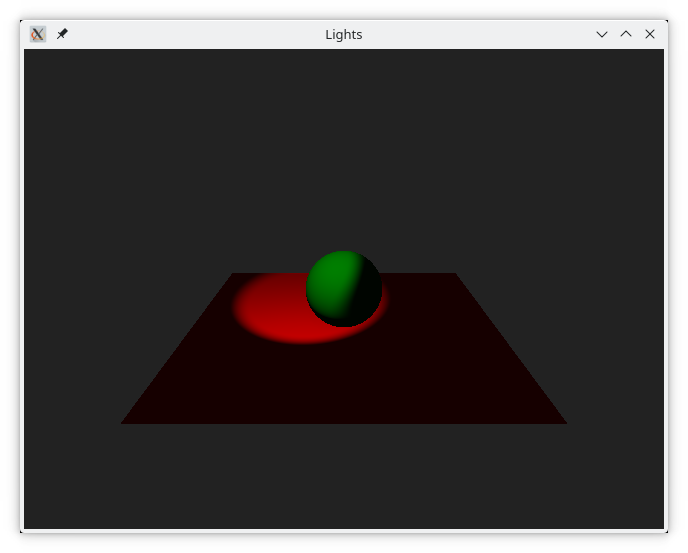
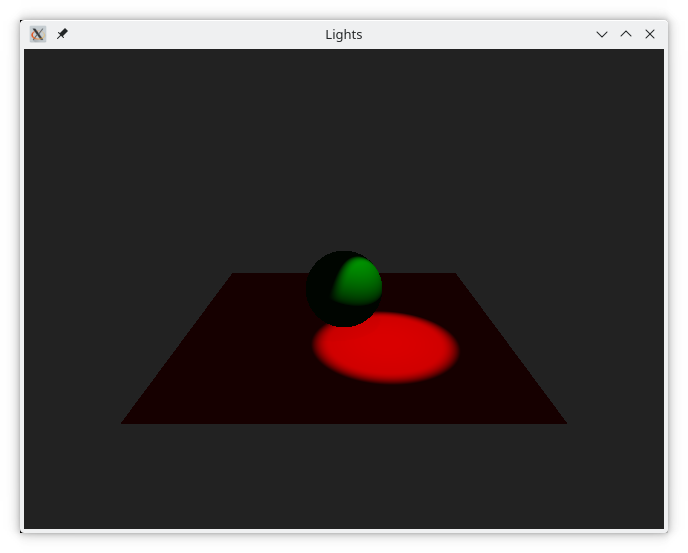
3d: first half of intro chapter

Changed region(s): [[0.3358, 0.4304, 0.6715, 0.7071]]

diff --git a/docs/ch12-qtquick3d/src/meshes/main.qml b/docs/ch12-qtquick3d/src/meshes/main.qml
@@ -1,3 +1,30 @@
+/*
+ * Copyright (c) 2023, Johan Thelin
+ * All rights reserved.
+ *
+ * Redistribution and use in source and binary forms, with or without
+ * modification, are permitted provided that the following conditions are met:
+ *     * Redistributions of source code must retain the above copyright
+ *       notice, this list of conditions and the following disclaimer.
+ *     * Redistributions in binary form must reproduce the above copyright
+ *       notice, this list of conditions and the following disclaimer in the
+ *       documentation and/or other materials provided with the distribution.
+ *     * Neither the name of the editors nor the
+ *       names of its contributors may be used to endorse or promote products
+ *       derived from this software without specific prior written permission.
+ *
+ * THIS SOFTWARE IS PROVIDED BY THE COPYRIGHT HOLDERS AND CONTRIBUTORS "AS IS" AND
+ * ANY EXPRESS OR IMPLIED WARRANTIES, INCLUDING, BUT NOT LIMITED TO, THE IMPLIED
+ * WARRANTIES OF MERCHANTABILITY AND FITNESS FOR A PARTICULAR PURPOSE ARE
+ * DISCLAIMED. IN NO EVENT SHALL <COPYRIGHT HOLDER> BE LIABLE FOR ANY
+ * DIRECT, INDIRECT, INCIDENTAL, SPECIAL, EXEMPLARY, OR CONSEQUENTIAL DAMAGES
+ * (INCLUDING, BUT NOT LIMITED TO, PROCUREMENT OF SUBSTITUTE GOODS OR SERVICES;
+ * LOSS OF USE, DATA, OR PROFITS; OR BUSINESS INTERRUPTION) HOWEVER CAUSED AND
+ * ON ANY THEORY OF LIABILITY, WHETHER IN CONTRACT, STRICT LIABILITY, OR TORT
+ * (INCLUDING NEGLIGENCE OR OTHERWISE) ARISING IN ANY WAY OUT OF THE USE OF THIS
+ * SOFTWARE, EVEN IF ADVISED OF THE POSSIBILITY OF SUCH DAMAGE.
+ */
+
 import QtQuick
 import QtQuick3D
 
@@ -16,26 +43,26 @@ Window {
         }
 
         Model {
-            position: Qt.vector3d(-200, 100, 0)
+            position: Qt.vector3d(200, 100, 0)
             source: "#Cone"
             materials: [ DefaultMaterial { diffuseColor: "yellow"; } ]
         }
 
         Model {
-            position: Qt.vector3d(200, 100, 0)
+            position: Qt.vector3d(-200, 100, 0)
             source: "#Cube"
             materials: [ DefaultMaterial { diffuseColor: "orange"; } ]
         }
 
         Model {
-            position: Qt.vector3d(-200, -100, 0)
-            eulerRotation.x: -135
+            position: Qt.vector3d(200, -100, 0)
+            eulerRotation.z: 45
             source: "#Rectangle"
             materials: [ DefaultMaterial { diffuseColor: "red"; } ]
         }
 
         Model {
-            position: Qt.vector3d(200, -100, 0)
+            position: Qt.vector3d(-200, -100, 0)
             source: "#Cylinder"
             materials: [ DefaultMaterial { diffuseColor: "blue"; } ]
         }
@@ -47,13 +74,13 @@ Window {
         }
 
         PerspectiveCamera {
-            position: Qt.vector3d(0, 0, -500)
+            position: Qt.vector3d(0, 175, 500)
             Component.onCompleted: lookAt(Qt.vector3d(0, 0, 0))
         }
 
         DirectionalLight {
-            eulerRotation.x: -20
-            eulerRotation.y: -110
+            eulerRotation.x: 20
+            eulerRotation.y: 20
         }
     }
 }

diff --git a/docs/ch12-qtquick3d/src/basicscene/main.qml b/docs/ch12-qtquick3d/src/basicscene/main.qml
@@ -1,3 +1,30 @@
+/*
+ * Copyright (c) 2023, Johan Thelin
+ * All rights reserved.
+ *
+ * Redistribution and use in source and binary forms, with or without
+ * modification, are permitted provided that the following conditions are met:
+ *     * Redistributions of source code must retain the above copyright
+ *       notice, this list of conditions and the following disclaimer.
+ *     * Redistributions in binary form must reproduce the above copyright
+ *       notice, this list of conditions and the following disclaimer in the
+ *       documentation and/or other materials provided with the distribution.
+ *     * Neither the name of the editors nor the
+ *       names of its contributors may be used to endorse or promote products
+ *       derived from this software without specific prior written permission.
+ *
+ * THIS SOFTWARE IS PROVIDED BY THE COPYRIGHT HOLDERS AND CONTRIBUTORS "AS IS" AND
+ * ANY EXPRESS OR IMPLIED WARRANTIES, INCLUDING, BUT NOT LIMITED TO, THE IMPLIED
+ * WARRANTIES OF MERCHANTABILITY AND FITNESS FOR A PARTICULAR PURPOSE ARE
+ * DISCLAIMED. IN NO EVENT SHALL <COPYRIGHT HOLDER> BE LIABLE FOR ANY
+ * DIRECT, INDIRECT, INCIDENTAL, SPECIAL, EXEMPLARY, OR CONSEQUENTIAL DAMAGES
+ * (INCLUDING, BUT NOT LIMITED TO, PROCUREMENT OF SUBSTITUTE GOODS OR SERVICES;
+ * LOSS OF USE, DATA, OR PROFITS; OR BUSINESS INTERRUPTION) HOWEVER CAUSED AND
+ * ON ANY THEORY OF LIABILITY, WHETHER IN CONTRACT, STRICT LIABILITY, OR TORT
+ * (INCLUDING NEGLIGENCE OR OTHERWISE) ARISING IN ANY WAY OUT OF THE USE OF THIS
+ * SOFTWARE, EVEN IF ADVISED OF THE POSSIBILITY OF SUCH DAMAGE.
+ */
+
 import QtQuick
 import QtQuick3D
 
@@ -10,11 +37,14 @@ Window {
     View3D {
         anchors.fill: parent
 
+// #region environment
         environment: SceneEnvironment {
             clearColor: "#222222"
             backgroundMode: SceneEnvironment.Color
         }
+// #endregion environment
 
+// #region meshes
         Model {
             position: Qt.vector3d(0, 0, 0)
             scale: Qt.vector3d(1, 1.25, 1)
@@ -23,21 +53,26 @@ Window {
         }
 
         Model {
-            position: Qt.vector3d(-80, 0, -50)
+            position: Qt.vector3d(80, 0, 50)
             source: "#Sphere"
             materials: [ DefaultMaterial { diffuseColor: "green"; } ]
         }
+// #endregion meshes
 
+// #region camera
         PerspectiveCamera {
-            position: Qt.vector3d(0, 200, -300)
+            position: Qt.vector3d(0, 200, 300)
             Component.onCompleted: lookAt(Qt.vector3d(0, 0, 0))
         }
+// #endregion camera
 
+// #region light
         DirectionalLight {
             eulerRotation.x: -20
-            eulerRotation.y: -110
+            eulerRotation.y: 110
 
             castsShadow: true
         }
+// #endregion light
     }
 }

diff --git a/docs/ch12-qtquick3d/src/lights/main.qml b/docs/ch12-qtquick3d/src/lights/main.qml
@@ -1,3 +1,30 @@
+/*
+ * Copyright (c) 2023, Johan Thelin
+ * All rights reserved.
+ *
+ * Redistribution and use in source and binary forms, with or without
+ * modification, are permitted provided that the following conditions are met:
+ *     * Redistributions of source code must retain the above copyright
+ *       notice, this list of conditions and the following disclaimer.
+ *     * Redistributions in binary form must reproduce the above copyright
+ *       notice, this list of conditions and the following disclaimer in the
+ *       documentation and/or other materials provided with the distribution.
+ *     * Neither the name of the editors nor the
+ *       names of its contributors may be used to endorse or promote products
+ *       derived from this software without specific prior written permission.
+ *
+ * THIS SOFTWARE IS PROVIDED BY THE COPYRIGHT HOLDERS AND CONTRIBUTORS "AS IS" AND
+ * ANY EXPRESS OR IMPLIED WARRANTIES, INCLUDING, BUT NOT LIMITED TO, THE IMPLIED
+ * WARRANTIES OF MERCHANTABILITY AND FITNESS FOR A PARTICULAR PURPOSE ARE
+ * DISCLAIMED. IN NO EVENT SHALL <COPYRIGHT HOLDER> BE LIABLE FOR ANY
+ * DIRECT, INDIRECT, INCIDENTAL, SPECIAL, EXEMPLARY, OR CONSEQUENTIAL DAMAGES
+ * (INCLUDING, BUT NOT LIMITED TO, PROCUREMENT OF SUBSTITUTE GOODS OR SERVICES;
+ * LOSS OF USE, DATA, OR PROFITS; OR BUSINESS INTERRUPTION) HOWEVER CAUSED AND
+ * ON ANY THEORY OF LIABILITY, WHETHER IN CONTRACT, STRICT LIABILITY, OR TORT
+ * (INCLUDING NEGLIGENCE OR OTHERWISE) ARISING IN ANY WAY OUT OF THE USE OF THIS
+ * SOFTWARE, EVEN IF ADVISED OF THE POSSIBILITY OF SUCH DAMAGE.
+ */
+
 import QtQuick
 import QtQuick3D
 
@@ -30,13 +57,13 @@ Window {
         }
 
         PerspectiveCamera {
-            position: Qt.vector3d(0, 200, -500)
+            position: Qt.vector3d(0, 200, 500)
             Component.onCompleted: lookAt(Qt.vector3d(0, 0, 0))
         }
 
         SpotLight {
-            position: Qt.vector3d(50, 200, -150)
-            eulerRotation.x: 230
+            position: Qt.vector3d(50, 200, 50)
+            eulerRotation.x: -90
 
             brightness: 5
             ambientColor: Qt.rgba(0.1, 0.1, 0.1, 1.0)
@@ -45,14 +72,14 @@ Window {
         }
 
         PointLight {
-            position: Qt.vector3d(100, 100, -50)
+            position: Qt.vector3d(100, 100, 150)
 
             castsShadow: true
         }
 
         DirectionalLight {
-            eulerRotation.x: -20
-            eulerRotation.y: -110
+            eulerRotation.x: 210
+            eulerRotation.y: 20
 
             castsShadow: true
         }

diff --git a/docs/ch12-qtquick3d/src/translations/main.qml b/docs/ch12-qtquick3d/src/translations/main.qml
@@ -1,3 +1,30 @@
+/*
+ * Copyright (c) 2023, Johan Thelin
+ * All rights reserved.
+ *
+ * Redistribution and use in source and binary forms, with or without
+ * modification, are permitted provided that the following conditions are met:
+ *     * Redistributions of source code must retain the above copyright
+ *       notice, this list of conditions and the following disclaimer.
+ *     * Redistributions in binary form must reproduce the above copyright
+ *       notice, this list of conditions and the following disclaimer in the
+ *       documentation and/or other materials provided with the distribution.
+ *     * Neither the name of the editors nor the
+ *       names of its contributors may be used to endorse or promote products
+ *       derived from this software without specific prior written permission.
+ *
+ * THIS SOFTWARE IS PROVIDED BY THE COPYRIGHT HOLDERS AND CONTRIBUTORS "AS IS" AND
+ * ANY EXPRESS OR IMPLIED WARRANTIES, INCLUDING, BUT NOT LIMITED TO, THE IMPLIED
+ * WARRANTIES OF MERCHANTABILITY AND FITNESS FOR A PARTICULAR PURPOSE ARE
+ * DISCLAIMED. IN NO EVENT SHALL <COPYRIGHT HOLDER> BE LIABLE FOR ANY
+ * DIRECT, INDIRECT, INCIDENTAL, SPECIAL, EXEMPLARY, OR CONSEQUENTIAL DAMAGES
+ * (INCLUDING, BUT NOT LIMITED TO, PROCUREMENT OF SUBSTITUTE GOODS OR SERVICES;
+ * LOSS OF USE, DATA, OR PROFITS; OR BUSINESS INTERRUPTION) HOWEVER CAUSED AND
+ * ON ANY THEORY OF LIABILITY, WHETHER IN CONTRACT, STRICT LIABILITY, OR TORT
+ * (INCLUDING NEGLIGENCE OR OTHERWISE) ARISING IN ANY WAY OUT OF THE USE OF THIS
+ * SOFTWARE, EVEN IF ADVISED OF THE POSSIBILITY OF SUCH DAMAGE.
+ */
+
 import QtQuick
 import QtQuick3D
 
@@ -14,7 +41,6 @@ Window {
             clearColor: "#222222"
             backgroundMode: SceneEnvironment.Color
         }
-
         Model {
             position: Qt.vector3d(250, 0, 0)
             eulerRotation.z: 30
@@ -78,13 +104,13 @@ Window {
         }
 
         PerspectiveCamera {
-            position: Qt.vector3d(0, 0, -500)
+            position: Qt.vector3d(0, 0, 500)
             Component.onCompleted: lookAt(Qt.vector3d(0, 0, 0))
         }
 
         DirectionalLight {
-            eulerRotation.x: -20
-            eulerRotation.y: -110
+            eulerRotation.x: -45
+            eulerRotation.y: 60
         }
     }
 }

diff --git a/docs/ch12-qtquick3d/basics.md b/docs/ch12-qtquick3d/basics.md
@@ -1,22 +1,93 @@
 # The Basics
 
+In this section we will walk through the basics of Qt Quick 3D. This includes working with the built in shapes (meshes), using lights, and transformations in 3D.
+
 ## A Basic Scene
 
-- View
-- scene environment
-- camera
-- light
-- model / meshes
+A 3D scene consists of a few standard elements:
+
+- ``View3D``, which is the top level QML element representing the entire 3D scene.
+- ``SceneEnvironment``, controls how the scene is rendered, including how the background, or sky box, is rendered.
+- ``PerspectiveCamera``, the camera in the scene. Can also be a ``OrthographicCamera``, or even a custom camera with a custom projection matrix.
+
+In addition to this, the scene usually contains ``Model`` instances representing objects in the 3D space, and lights.
+
+We will look at how these elements interact by creating the scene shown below.
 
 ![image](./assets/basicscene.png)
+
+First of all, the QML code is setup with a ``View3D`` as the main element, filling the window. We also import the ``QtQuick3D`` module.
+
+The ``View3D`` element can be seen as any other Qt Quick element, just that inside of it, the 3D contents will be rendered.
+
+```qml
+import QtQuick
+import QtQuick3D
+
+Window {
+    width: 640
+    height: 480
+    visible: true
+    title: qsTr("Basic Scene")
+
+    View3D {
+        anchors.fill: parent
+
+        // ...
     
-<<< @/docs/ch12-qtquick3d/src/basicscene/main.qml
+    }
+}
+```
+
+Then we setup the ``SceneEnvironment`` with a solid background colour. This is done inside the ``View3D`` element.
+
+<<< @/docs/ch12-qtquick3d/src/basicscene/main.qml#environment
+
+The ``SceneEnvironment`` can be used to control a lot more rendering parameters, but for now, we only use it to set a solid background colour.
+
+The next step is to add _meshes_ to the scene. A mesh represents an object in 3D space. Each mesh is created using a ``Model`` QML element.
+
+A model can be used to load 3D assets, but there are a few built-in meshes allowing us to get started without involving the complexity of 3D assets management. In the code below, we create a ``#Cone`` and a ``#Sphere``.
+
+In addition to the shape of the mesh, we position them in 3D space and provide them with a material with a simple, diffuse colour. We will discuss materials more in the [Materials and Light]("Materials and Lights") section
+
+When positioning elements in 3D space, coordinates are expressed as ``Qt.vector3d(x, y, z)`` where the `x` axis controls the horizontal movement, `y` is the vertical movement, and `z` the how close or far away something is. 
+
+By default, the positive direction of the `x` axis is to the right, positive `y` points upwards, and positive `z` out of the screen. I say default, because this depends on the projection matrix of the camera.
+
+<<< @/docs/ch12-qtquick3d/src/basicscene/main.qml#meshes
+
+Once we have lights in the scene we add a ``DirectionalLight``, which is a light that works much like the sun. It adds an even light in a pre-determined direction. The direction is controlled using the ``eulerRotation`` property where we can rotate the light direction around the various axes.
+
+By setting the ``castsShadow`` property to ``true`` we ensure that the light generates shadows as can be seen on cone, where the shadow from the sphere is visible.
+
+<<< @/docs/ch12-qtquick3d/src/basicscene/main.qml#light
+
+The last piece of the puzzle is to add a camera to the scene. There are various cameras for various perspectives, but for a realistic projection, the ``ProjectionCamera`` is the one to use.
+
+In the code, we place the camera using the ``position`` property. It is then possible to direct the camera using the ``eulerRotation`` property, but instead we call the ``lookAt`` method from the ``Component.onCompleted`` signal handler. This rotates the camera to look at a specific direction once it has been created and initialized.
+
+<<< @/docs/ch12-qtquick3d/src/basicscene/main.qml#camera
+
+The resulting scene can be seen below.
+
+![image](./assets/basicscene.png)
 
 ## The Built-in Meshes
 
+In the previous example, we used the built-in cone and sphere. Qt Quick 3D comes with the following built in meshes:
+
+- ``#Cube``
+- ``#Cone``
+- ``#Sphere``
+- ``#Cylinder``
+- ``#Rectangle``
+
+These are all shown in the illustration below.
+
 ![image](./assets/meshes.png)
 
-<<< @/docs/ch12-qtquick3d/src/meshes/main.qml
+One caveat is that the ``#Rectangle`` is one-sided. That means that it is only visible from one direction. This means that the ``eulerRotation`` property is important.
 
 ## Lights
 
